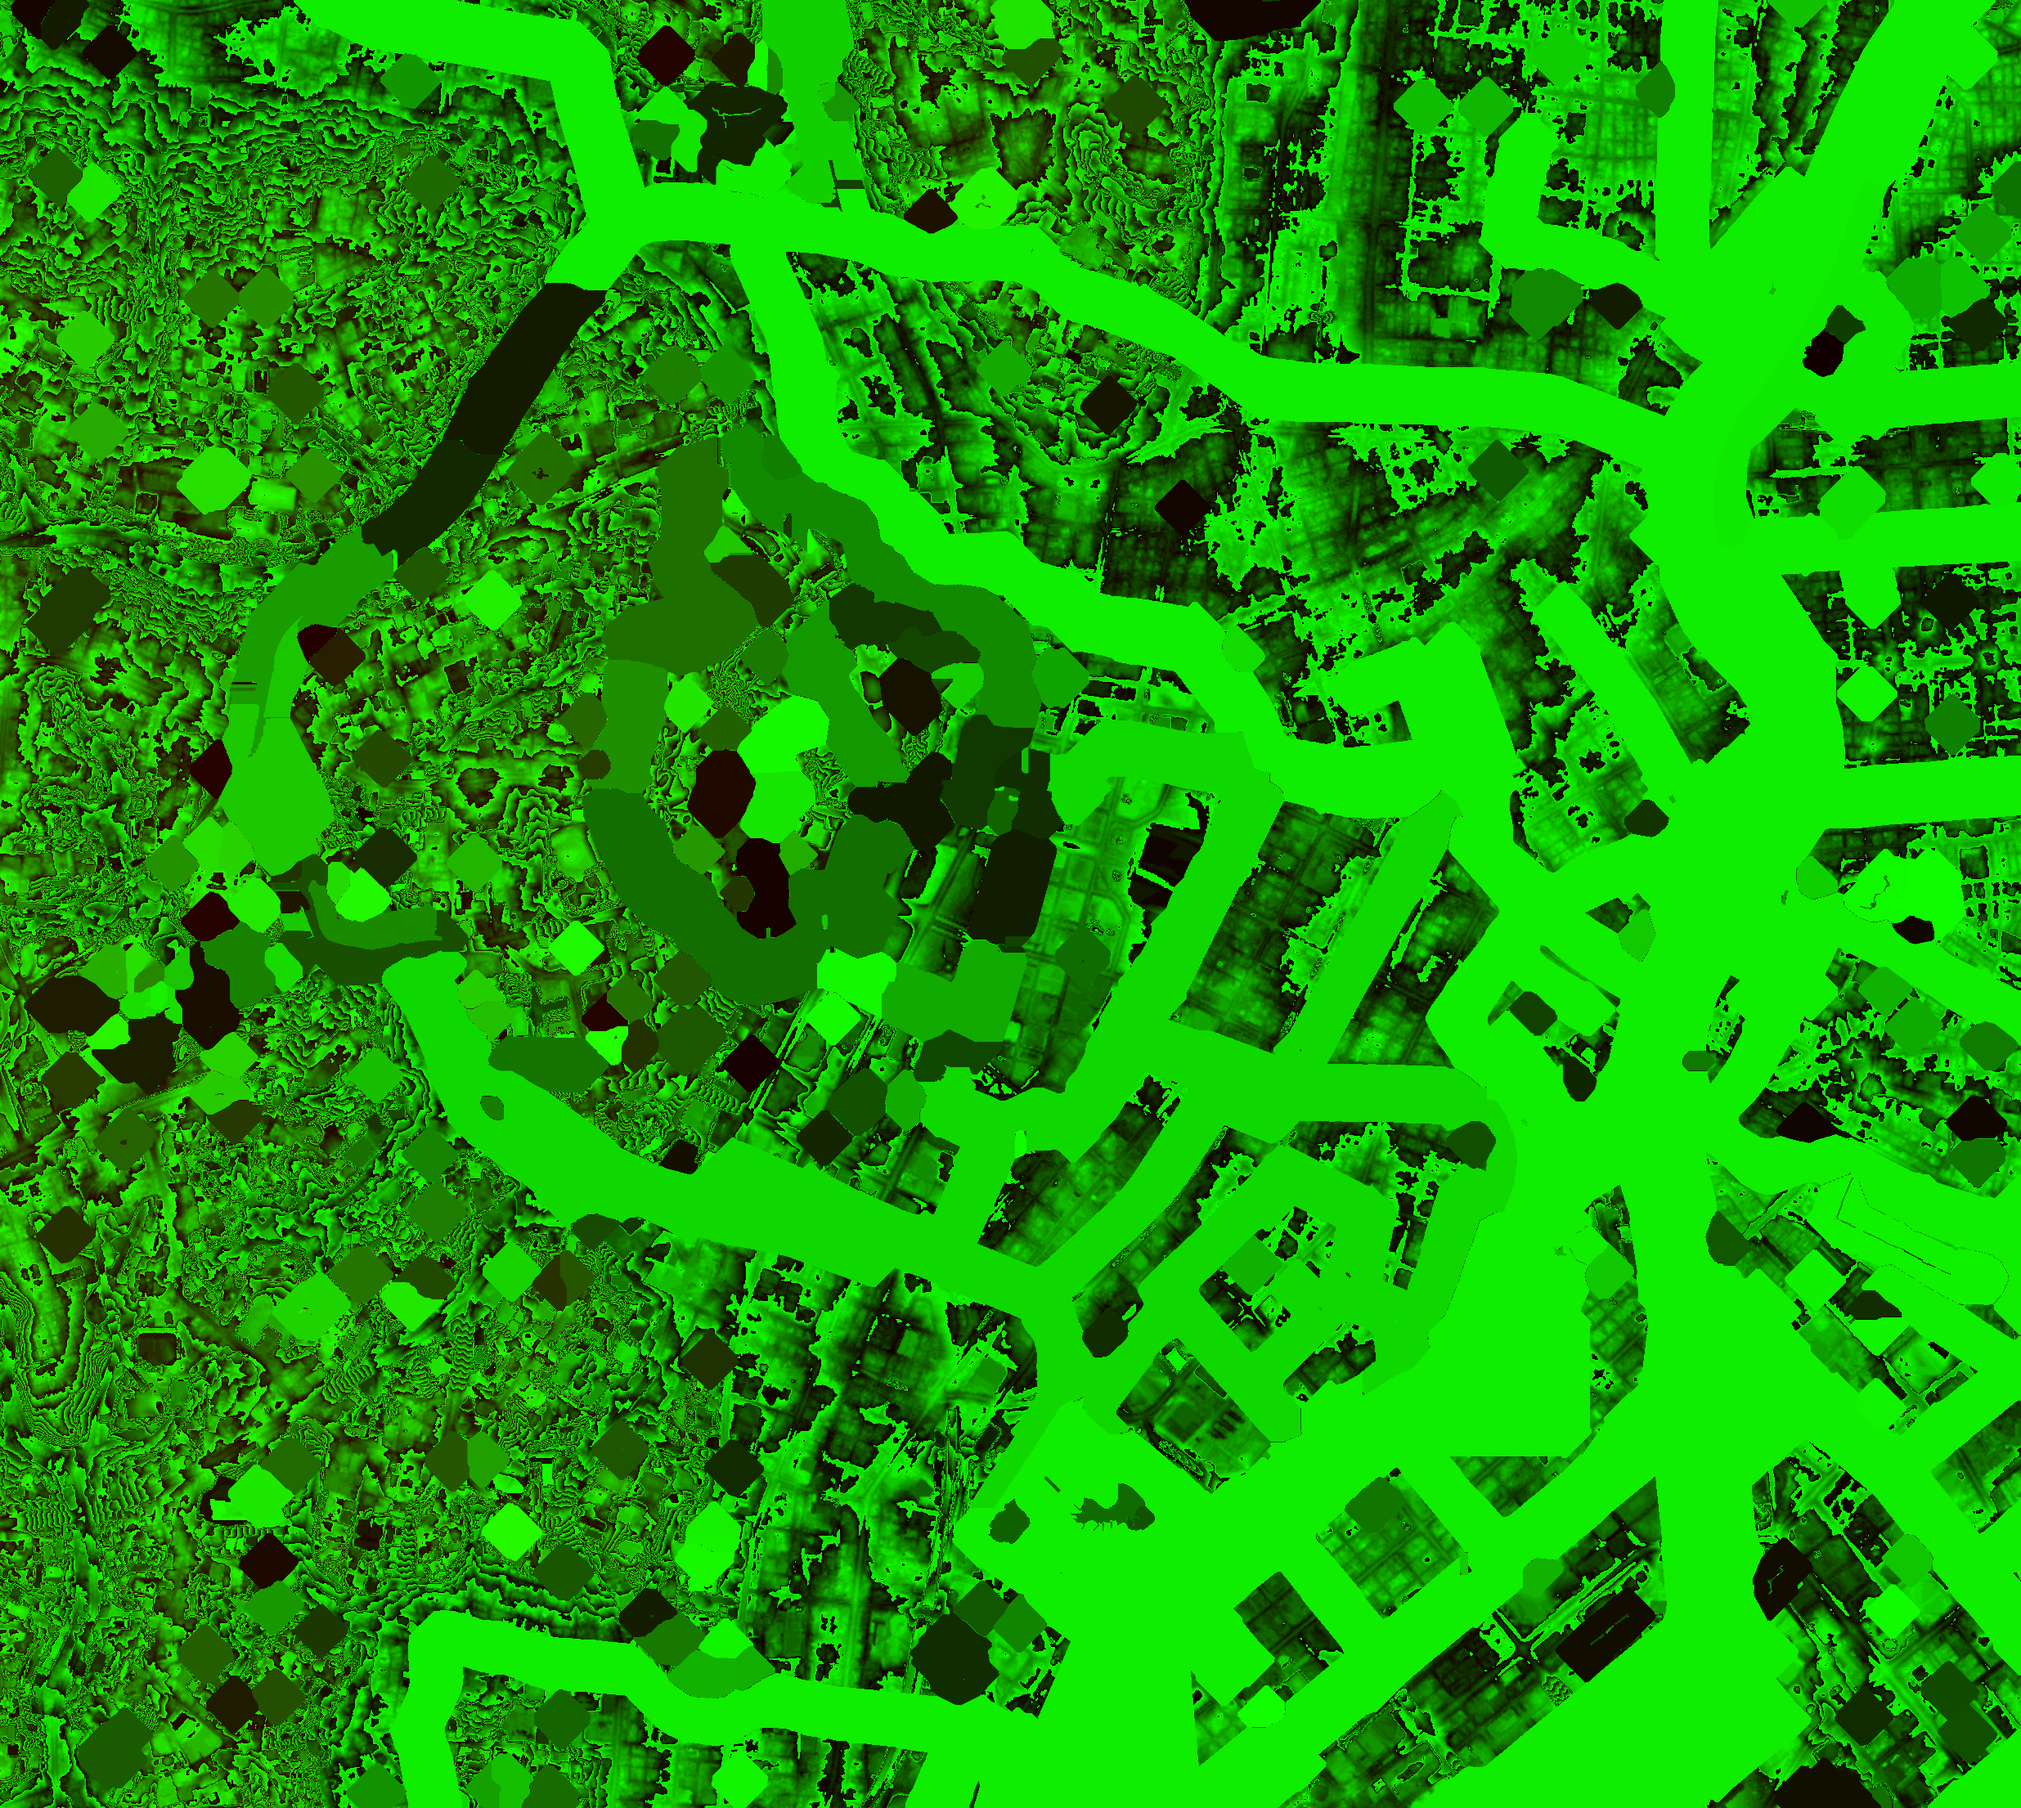
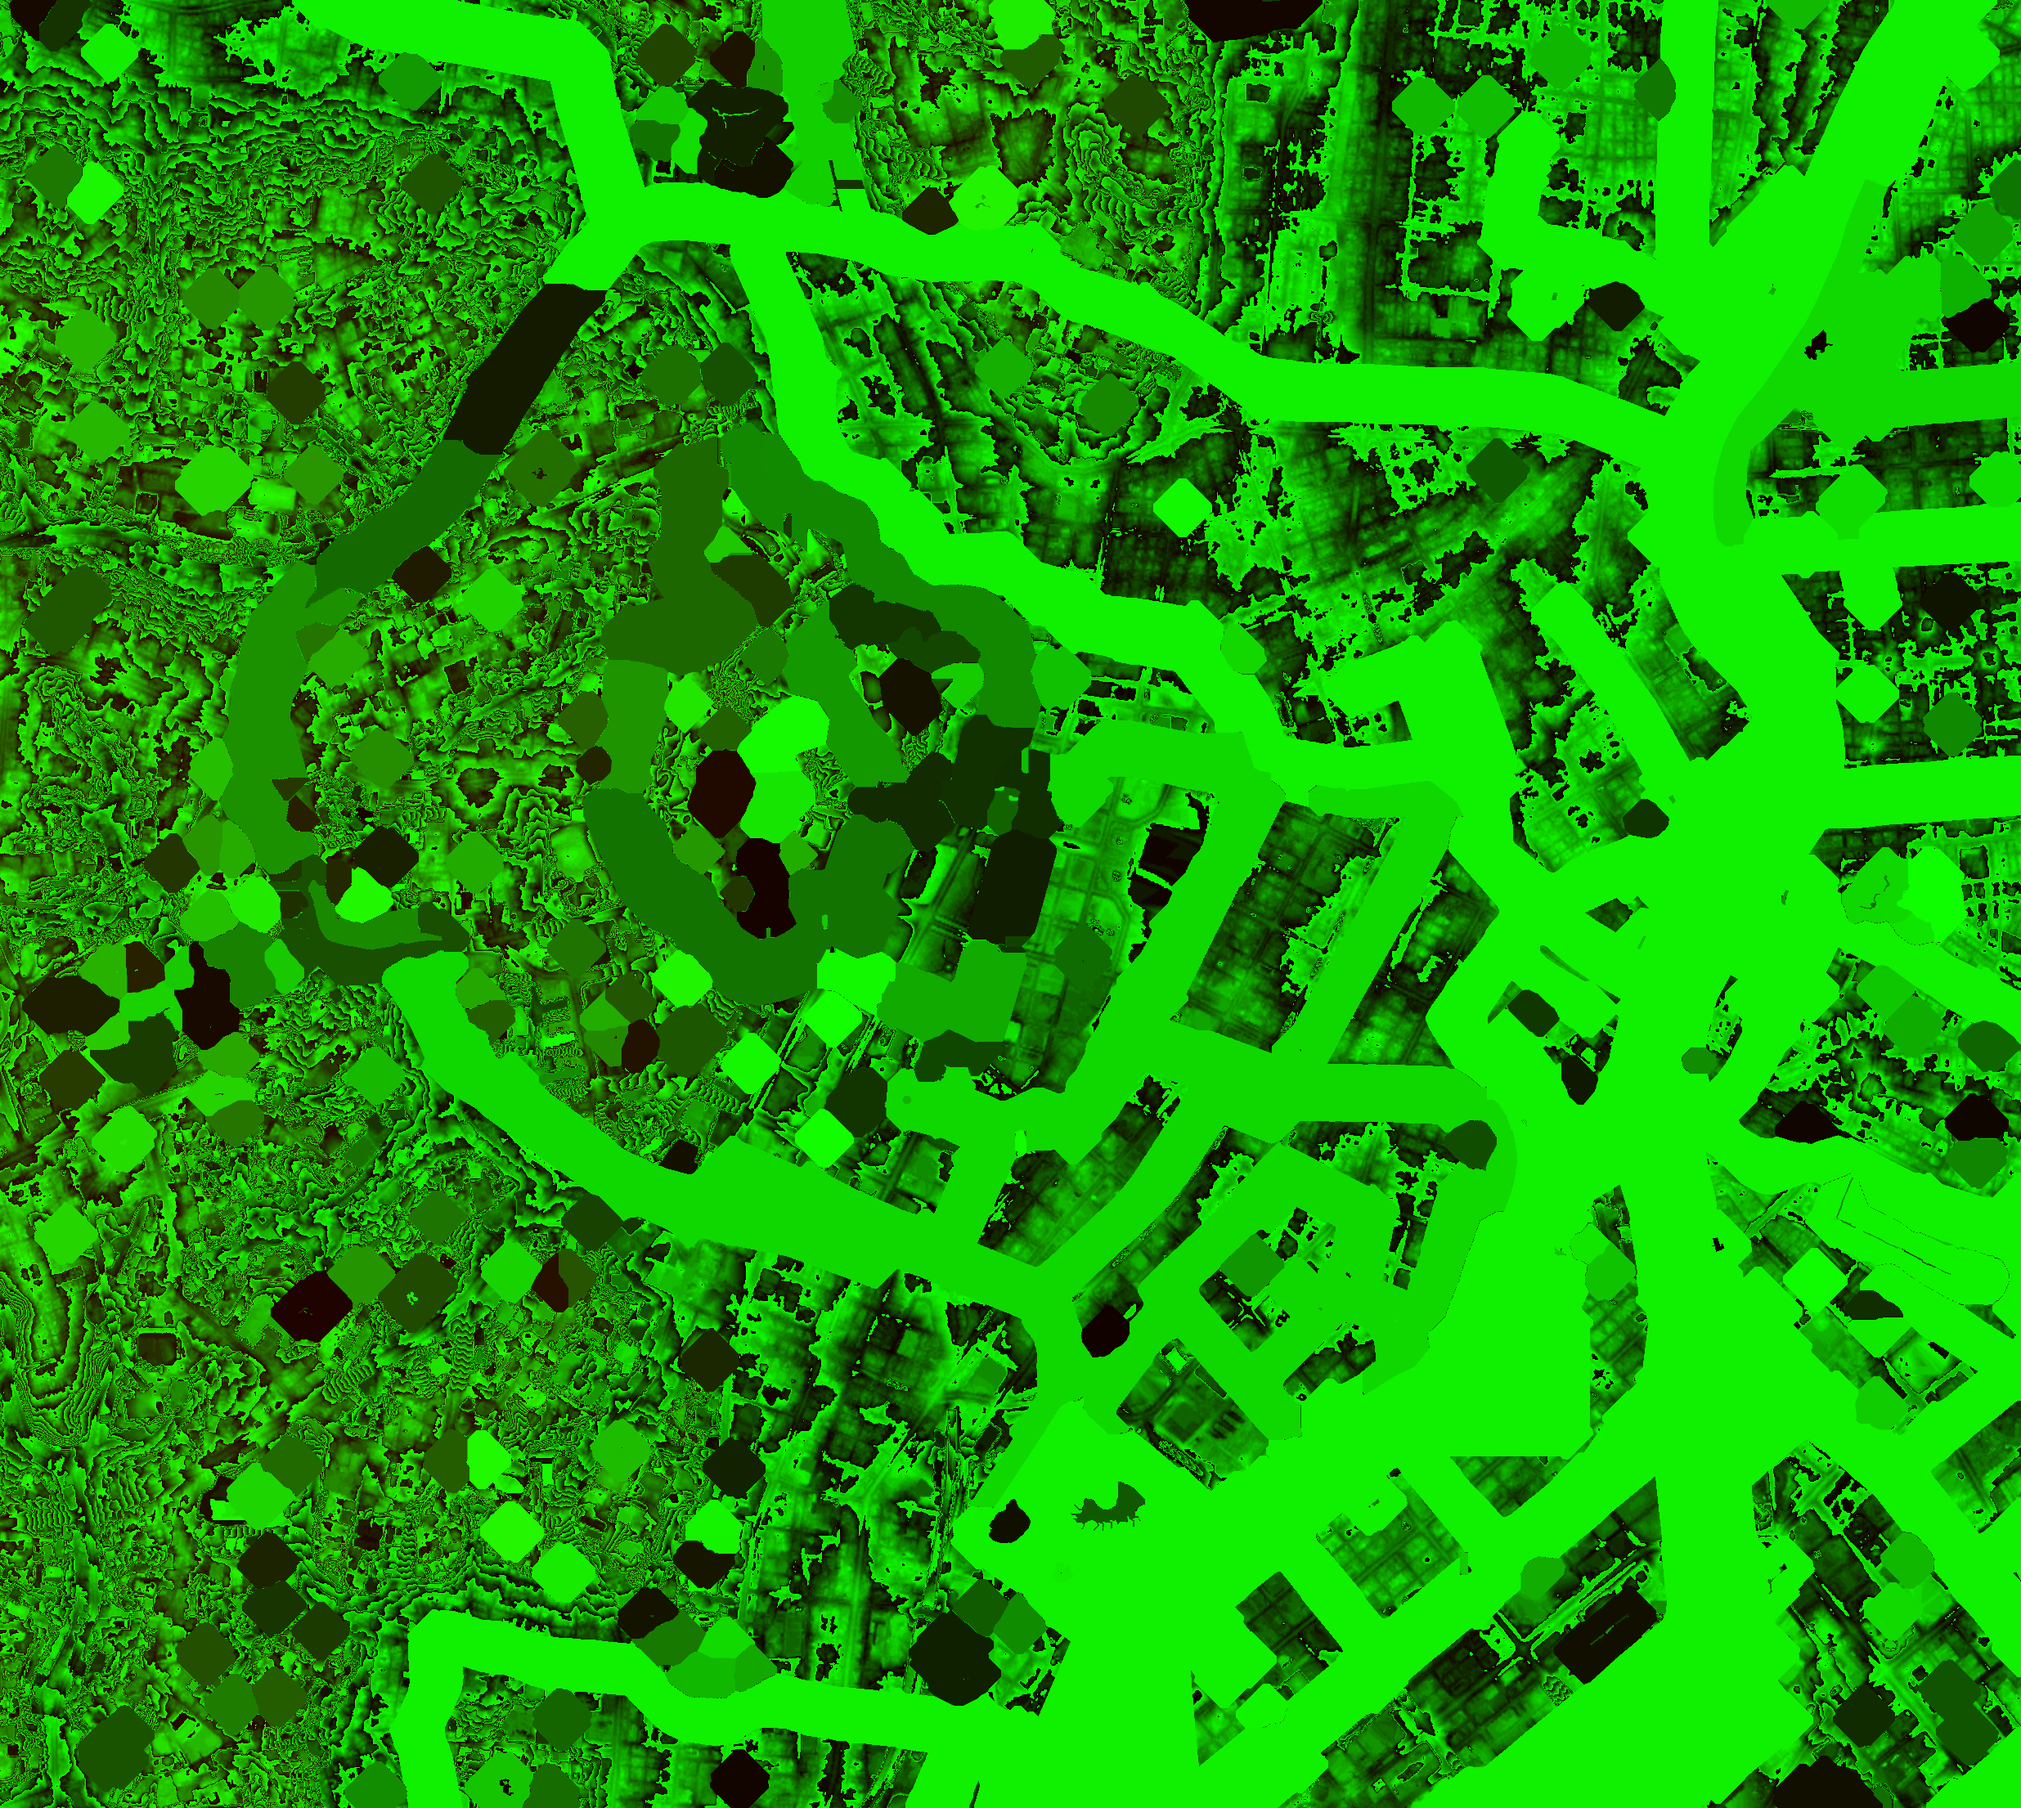
真田濠を一本に (想像で引いた東の枝と中洲をなくす)、溜池を一つの池に (二手に分かれた細い水路・中島・切れ端をなくす)、真田濠↔弁慶濠のワープを両方の端に
Claude-Session: https://claude.ai/code/session_01UXdYbnpU5x9gYZ3cBC1Uhw

diff --git a/tools/patch_map.py b/tools/patch_map.py
@@ -121,8 +121,55 @@ for (ka, kb), (d2, ya, xa, yb, xb) in pairs.items():
     dr.line([(xa, ya), (xb, yb)], fill=0, width=max(3, int(12 / RES))); ncut += 1
     print('cut under road', round(N0 - yc * RES / KZ, 4), round(W0 + xc * RES / KX, 4), round(d2 ** 0.5 * RES), 'm')
 A = np.array(img)
+# 真田濠は一本 (四谷から喰違見附へ)。想像で引いた東の枝 (二手に分かれて中洲ができた所) は陸に戻す:
+# (35.6858, 139.73095) と (35.6829, 139.73195) を結ぶ線より東の水
+nfill = 0
+for y in range(cell(35.6858, 0)[0], cell(35.6826, 0)[0] + 1):
+    la_ = N0 - (y + 0.5) * RES / KZ
+    t_ = (35.6858 - la_) / (35.6858 - 35.6829)
+    lo_line = 139.73095 + (139.73195 - 139.73095) * t_
+    for x in range(cell(0, lo_line)[1] + 1, cell(0, 139.7335)[1]):
+        if A[y, x] == 0: A[y, x] = 5; nfill += 1
+print('真田濠の東の枝を陸に', nfill)
+# 溜池は一つの広い池 (赤坂見附から虎ノ門の方へ)。二手に分かれた細い水路と中島・横の切れ端を直す
+def box_set(la0, la1, lo0, lo1, frm, to, cond=None):
+    n_ = 0
+    for y in range(cell(la1, 0)[0], cell(la0, 0)[0] + 1):
+        for x in range(cell(0, lo0)[1], cell(0, lo1)[1] + 1):
+            if A[y, x] == frm and (cond is None or cond[y, x]): A[y, x] = to; n_ += 1
+    return n_
+# 細い西の水路: 広い池の南西の岸 ((35.67383, 139.7403) と (35.67091, 139.7449) を結ぶ線) より南西の水を陸に
+nT = 0
+for y in range(cell(35.6745, 0)[0], cell(35.6697, 0)[0] + 1):
+    la_ = N0 - (y + 0.5) * RES / KZ
+    for x in range(cell(0, 139.7370)[1], cell(0, 139.7452)[1] + 1):
+        lo_ = W0 + (x + 0.5) * RES / KX
+        # 線の南西側: 線上の同じ緯度の経度より西
+        t_ = (35.67383 - la_) / (35.67383 - 35.67091); lo_line = 139.7403 + (139.7449 - 139.7403) * t_
+        if lo_ < lo_line - 0.00005 and A[y, x] == 0: A[y, x] = 5; nT += 1
+# 中島 (池の中に囲まれた陸) は水に
+y0_, x0_ = cell(35.6762, 139.7370); y1_, x1_ = cell(35.6740, 139.7392)
+subL = A[y0_:y1_, x0_:x1_] != 0
+outL = np.zeros_like(subL); qq = deque()
+for yy in range(subL.shape[0]):
+    for xx in (0, subL.shape[1] - 1):
+        if subL[yy, xx] and not outL[yy, xx]: outL[yy, xx] = True; qq.append((yy, xx))
+for xx in range(subL.shape[1]):
+    for yy in (0, subL.shape[0] - 1):
+        if subL[yy, xx] and not outL[yy, xx]: outL[yy, xx] = True; qq.append((yy, xx))
+while qq:
+    yy, xx = qq.popleft()
+    for a2, b2 in ((yy + 1, xx), (yy - 1, xx), (yy, xx + 1), (yy, xx - 1)):
+        if 0 <= a2 < subL.shape[0] and 0 <= b2 < subL.shape[1] and subL[a2, b2] and not outL[a2, b2]: outL[a2, b2] = True; qq.append((a2, b2))
+isl = subL & ~outL
+A[y0_:y1_, x0_:x1_][isl] = 0
+print('溜池: 西の細い水路を陸に', nT, '中島を水に', int(isl.sum()), '横の切れ端を陸に', box_set(35.6743, 35.6753, 139.7399, 139.7438, 0, 5))
+img = Image.fromarray(A); dr = ImageDraw.Draw(img)
+for (a_, b_, wd_) in [((35.67480, 139.73820), (35.67380, 139.74030), 45), ((35.67700, 139.73720), (35.67430, 139.73930), 55), ((35.67400, 139.73980), (35.67080, 139.74520), 60)]:  # 溜池を広い一つの池に
+    ya_, xa_ = cell(*a_); yb_, xb_ = cell(*b_); dr.line([(xa_, ya_), (xb_, yb_)], fill=0, width=int(wd_ / RES))
+A = np.array(img)
 # 丘の上を通ってしまった想像の堀 (溜池の水路が日枝神社の山王の丘を切っている所) を陸に戻す: 半径の中で岸の高さが高い水のマス
-HILL = [((35.6748, 139.7397), 110, 16)]  # (中心, 半径 m, この高さ m より高い岸)
+HILL = [((35.6748, 139.7397), 60, 16)]  # (中心, 半径 m, この高さ m より高い岸)
 Tp = np.array(Image.open(os.path.join(D, 'terrain.png')).convert('RGB')).astype(float); TH = (Tp[..., 0] * 256 + Tp[..., 1]) / 200 - 20
 for (la, lo), rad, thr in HILL:
     y0, x0 = cell(la, lo); r = int(rad / RES); nfill = 0
@@ -191,7 +238,7 @@ w['warps'] = [[*snapw(k[0], k[1]), *snapw(k[2], k[3])] for k in w['warps']]
 MOVE = [((35.6924, 139.7548), (35.69269, 139.75533)),
         ((35.6841, 139.7556), (35.68300, 139.75586)),
         ((35.6823, 139.7553), (35.68262, 139.75600)),
-        ((35.6822, 139.7310), (35.68351, 139.73229)), ((35.6806, 139.7323), (35.68096, 139.73239)),  # 喰違見附の両側
+        ((35.68351, 139.73229), (35.68200, 139.73160)), ((35.6822, 139.7310), (35.68200, 139.73160)), ((35.6806, 139.7323), (35.68096, 139.73239)),  # 喰違見附の両側
         ((35.6848, 139.7454), (35.68428, 139.74515)), ((35.6832, 139.7451), (35.68335, 139.74510))]  # 半蔵門の土橋 (35.6839) の両側  # 坂下門: 蛤濠の南西の端 ↔ 二重橋濠  # 清水濠の側を雉子橋御門のそばへ
 for (la0, lo0), (la1, lo1) in MOVE:
     x0, z0 = (lo0 - W0) * KX, (N0 - la0) * KZ; x1, z1 = snapw((lo1 - W0) * KX, (N0 - la1) * KZ)
